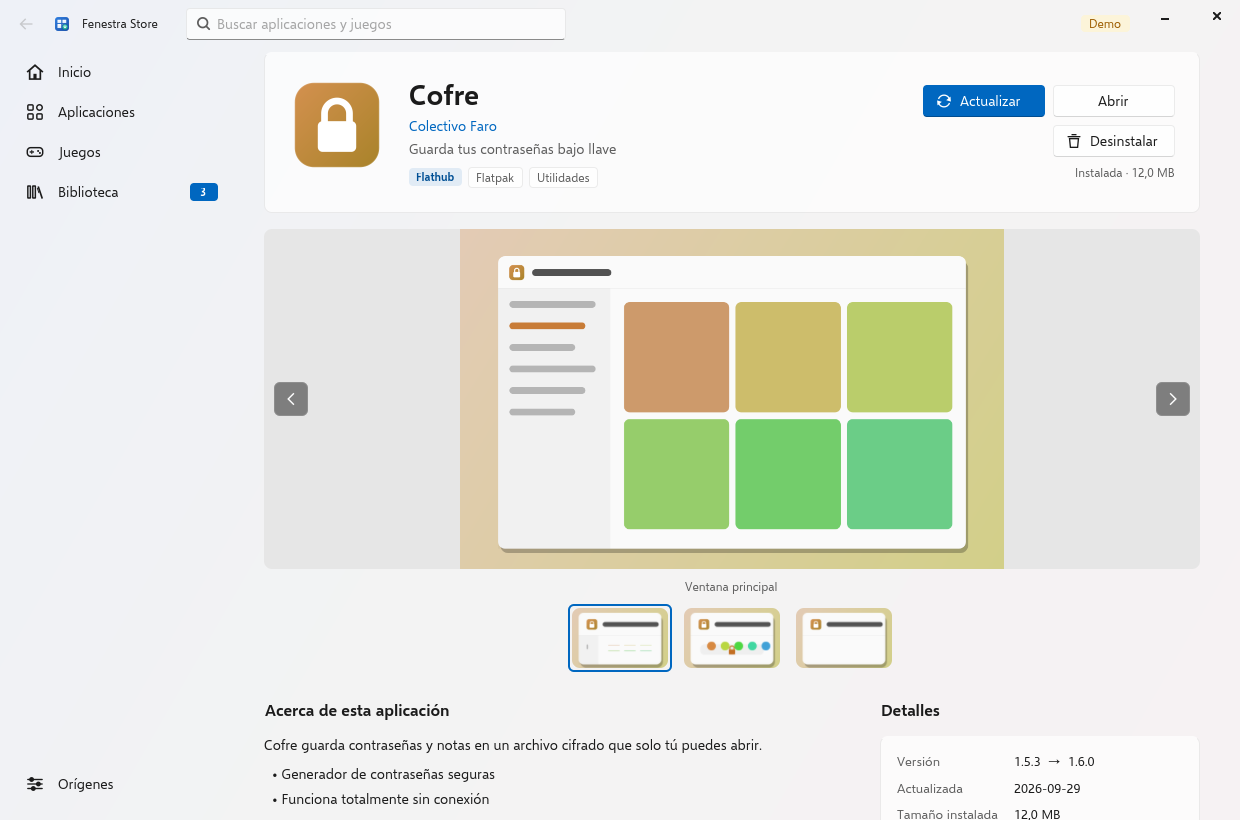
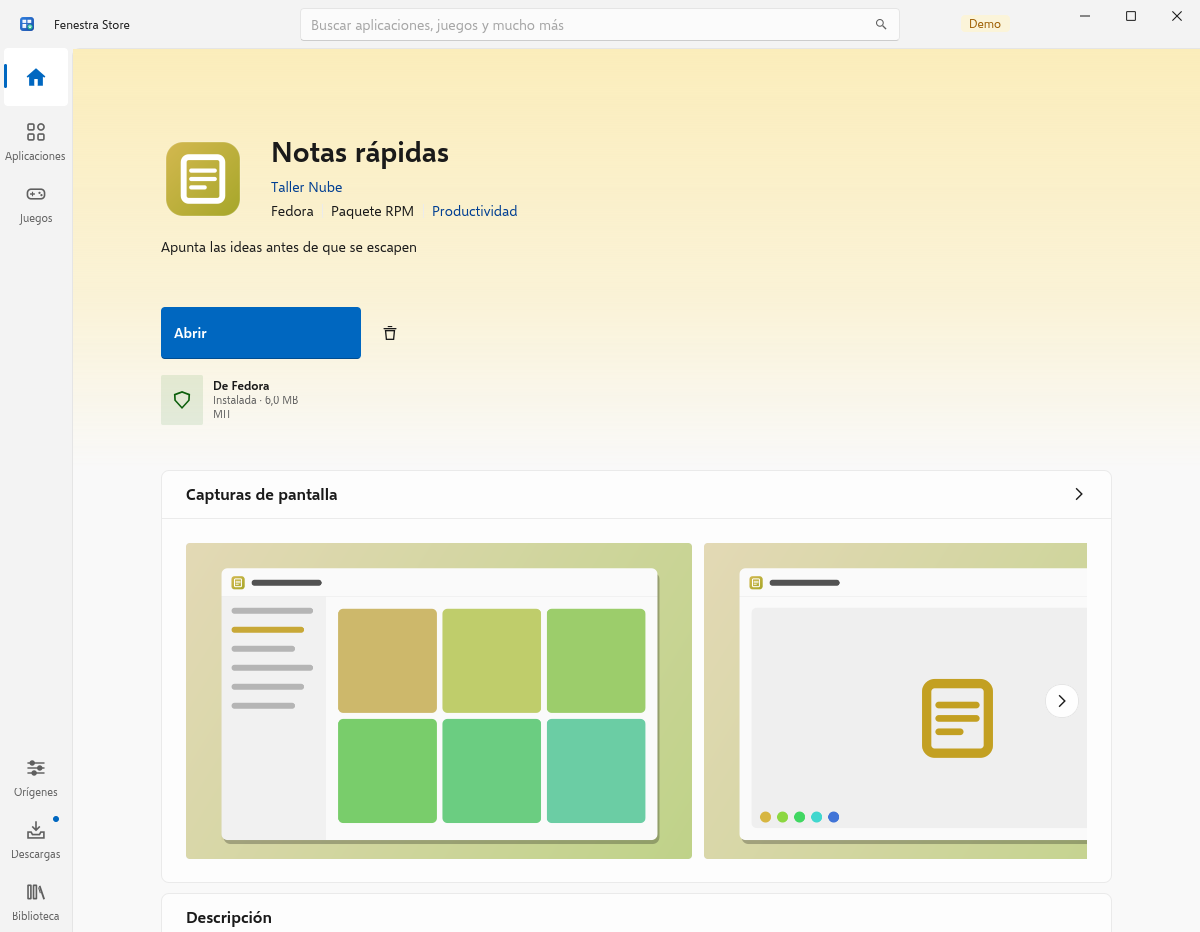
Store: standard Open buttons in list rows; README and screenshots regenerated (1200x932, demo data)
Claude-Session: https://claude.ai/code/session_01M9xAGjZsuStV1FXHj6MMn1

diff --git a/apps/fenestra-store/fenestra_store/widgets.py b/apps/fenestra-store/fenestra_store/widgets.py
@@ -379,9 +379,11 @@ class ActionArea(Gtk.Box):
             self.main = self._btn(_("Install"), True, lambda: st.install(app.uid), "st-download-symbolic")
         elif app.state == INSTALLED:
             if app.has_update:
-                self.main = self._btn(_("Update"), True, lambda: st.update(app.uid), "st-update-symbolic")
+                self.main = self._btn(_("Update"), True, lambda: st.update(app.uid),
+                                      None if self.small else "st-update-symbolic")
             if self.show_open:
-                b = self._btn(_("Open"), not app.has_update, lambda: self.win.launch(app.uid))
+                # rows (small) use a standard Open button, like the reference's list rows
+                b = self._btn(_("Open"), not app.has_update and not self.small, lambda: self.win.launch(app.uid))
                 self.main = self.main or b
 
     def clicked(self):

diff --git a/apps/fenestra-store/README.md b/apps/fenestra-store/README.md
@@ -5,9 +5,11 @@ Fenestra's own app store. You can browse, search, install, update and uninstall 
 catalogue.
 
 It is written in Python 3 + PyGObject + **GTK 4** (no libadwaita, no pip dependencies) and
-uses the visual language of Fenestra Settings and Task Manager: a left navigation rail with
-an accent pill, cards with 4–8 px corners, accent buttons, the same fonts and palette, and
-the accent colour from GSettings. The layout, artwork and wording are Fenestra's own. Demo
+follows the geometry of the reference store, measured at 100 % (design/reference/
+measurements.json, key `app_store`, on the visual/reference branch): a 48 px title bar with
+the search box centred, a 72 px rail of icon-over-label items, the page in a framed area with
+an 8 px corner, a hero of one large and three small tiles, panels that list apps three at a
+time, 341x316 result cards and 72 px download rows. It uses the accent colour from GSettings. The layout, artwork and wording are Fenestra's own. Demo
 mode only shows invented apps with icons and screenshots generated at runtime.
 
 | Home | App page |
@@ -15,7 +17,7 @@ mode only shows invented apps with icons and screenshots generated at runtime.
 | ![Home, dark](screenshots/home-dark.png) | ![App page, dark](screenshots/app-dark.png) |
 | ![Home, light](screenshots/home-light.png) | ![App page in Spanish, light](screenshots/app-es-light.png) |
 
-| Library › Updates | Library › Installed |
+| Downloads (updates) | Library |
 |---|---|
 | ![Updates, light](screenshots/updates-light.png) | ![Installed apps, dark](screenshots/library-dark.png) |
 
@@ -60,27 +62,27 @@ renderer, then saved as a PNG. `FENESTRA_SHOT_DELAY` (ms, default 1500) sets the
 
 ## Pages
 
-* **Home**: a rotating featured banner (highlighted apps, or five complete and recently
-  released listings that change daily for real catalogues), category tiles, Popular apps,
-  New and updated, Popular games and one row per category. Each card shows the icon, name,
-  summary, a source badge (Flathub or Fedora) and the state (installed, update available,
-  progress).
-* **Apps / Games / categories**: category chips, sorting (popular or recommended, name,
-  recently updated) and a grid that loads 60 cards at a time.
+* **Home / Apps / Games**: a hero with a large rotating banner (highlighted apps, or five
+  complete and recently released listings that change daily for real catalogues) and three
+  tiles, then pairs of panels: Popular apps and games, New and updated, and one panel per
+  category (Apps also has a row of category chips). Each row shows the icon, name, category
+  and a chip with the state (Free, Installed, Update).
+* **Categories**: sorting (popular or recommended, name, recently updated) and a grid of
+  cards (icon, name, source and category, summary, first screenshot) that loads 60 at a time.
 * **Search**: the search box is in the title bar. Results are live (150 ms debounce),
   ranked by name, then keywords, summary, developer, id and description. Matching ignores
   accents ("rapidas" finds "Notas rápidas"). Results can be filtered to apps or games.
 * **App page**: icon, name, developer (click to search for their apps), summary, source and
-  format chips, Install / Open / Update / Uninstall with real progress, a screenshot carousel
-  with thumbnails, the description, details (version, release date, download and installed
+  format, Install / Open / Update / Uninstall with real progress, over a gradient of the app's
+  colour; then cards with the screenshot strip, the description, details (version, release date, download and installed
   size, licence, source and remote, format, developer, website), permissions for Flatpak
   apps ("not sandboxed" for RPMs), "Other apps by …", and "Also available from" when the same
   app exists in both sources.
   **There are no ratings.** Fenestra Store has no review source yet (ODRS is not wired up),
   and it never invents ratings.
-* **Library**: installed apps from both sources (open, update, uninstall) and **Updates**
-  (per app or *Update all*, progress, *Check for updates*, "last checked", and a count badge
-  on the rail).
+* **Library**: installed apps from both sources as 72 px rows (source, version and size,
+  Open/Update, and a menu with Uninstall). **Downloads** (rail) lists the updates: per app or
+  *Update all*, progress, *Check for updates*, "last checked", and a dot on the rail item.
 * **Sources**: turn Flathub on or off (Flatpak remotes), add Flathub if it is missing, and
   turn the Fedora repositories on or off (PackageKit). The page also explains how apps are
   installed.
